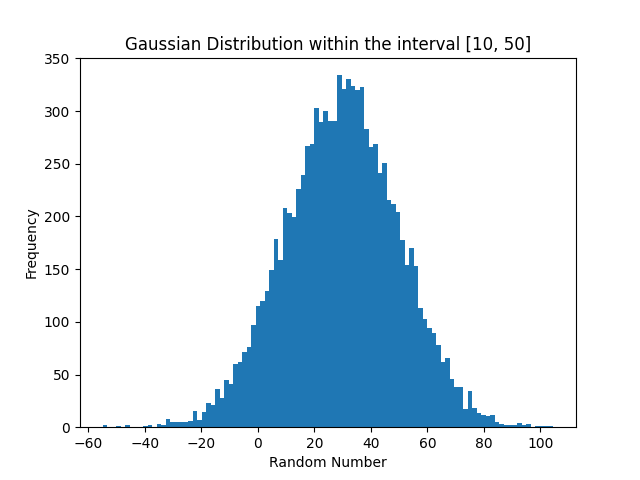
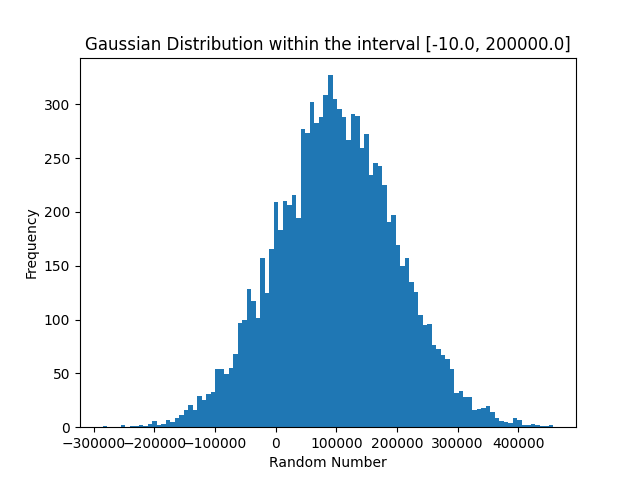
input logic

diff --git a/Creating_Random_Samplers/main.py b/Creating_Random_Samplers/main.py
@@ -6,6 +6,13 @@ from scipy.stats import norm
 A = 10
 B = 50
 
+A = float(input("Enter the value of A : "))
+B = float(input("Enter the value of B : "))
+
+while B < A :
+    print ("The value of B must be greater A !")
+    B = float(input("Enter the value of B : "))
+
 # define mean and standard deviation
 # assuming that [A , B] is the range [mean - std, mean + std]
 MEAN = (A + B) / 2
@@ -22,6 +29,7 @@ random_numbers = np.random.rand(N)
 gaussian_random_numbers = []
 for i in range(N):
     # percent point function, given a CDF value, returns the value of the RV (from normal distribution) at which would lead to this CDF
+    # loc takes the mean of the distribution
     gaussian_random_numbers.append(norm.ppf(random_numbers[i], loc= MEAN, scale = STD ))
 
 # Plot A histogram using the random numbers generated in step 2
